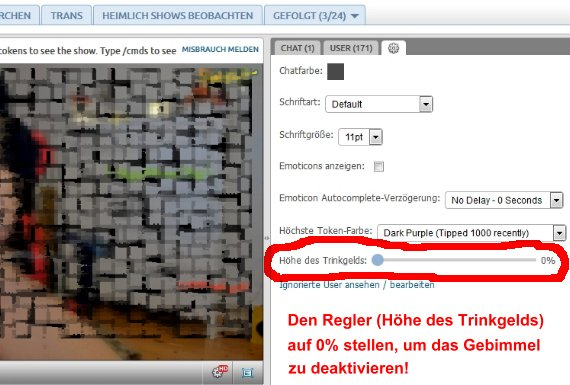
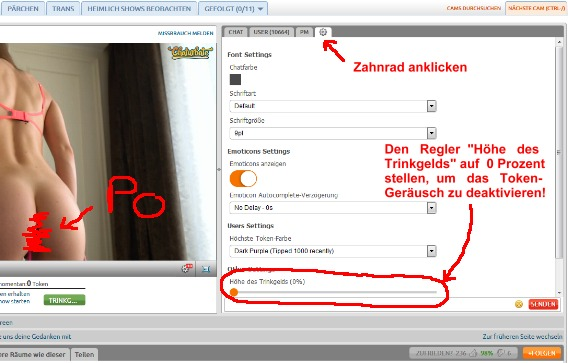
Commit to YOURCURRENTBRANCH

diff --git a/faq/index.htm b/faq/index.htm
@@ -172,27 +172,26 @@ a {
 	Verantwortungsbewusste Webcam-<img class="auto-style65" height="211" src="token-klang-abstellen.png" style="float: left" width="230" title="Die Tokengeräusche deaktivieren" alt="Wie man die Token Geräusche auf Chaturbate abstellen kann">Darstellerinnen 
 	wie <a href="../kimilee22/index.htm" target="_self">Kimilee22</a> erklären ihren Usern wie sie den Tokenkrach eliminieren 
 	können. Andere Webcam-Girls erfreuen sich an den Ohrenqualen ihrer 
-	Zuschauer.<br>Um das Tokengeräusch abzustellen muss man sich nicht einloggen, 
-	auch wenn man zwischendurch dazu aufgefordert wird (Aufforderung 
-	wegklicken!). Im rechten Bereich der Chaturbate-Seite findet man oberhalb 
-	des Chats ein Zahnradsymbol, welches man bitte anklicke, um eine 
-	Registerkarte mit interessanten Einstellungsmöglichkeiten in den Vordergrund 
-	zu rücken. Dort findet man einen Schieberegler mit der fabulösen Bezeichnung 
-	"Höhe des Trinkgelds". Die Bezeichnung ist gleichermaßen falsch wie 
-	beängstigend. Es handelt sich dabei tatsächlich um den Lautstärkeregler des 
-	Token-Geräusches. Man ziehe den Regler ganz nach links und stelle ihn auf 
-	0%. Das nervige Gebimmel hat ein jähes Ende. Trotzdem sollten Sie der 
-	Webcam-Darstellerin hin und wieder einen Token rüberwachsen lassen, um zu 
-	verhindern dass sie sich weiter auszieht! Der Vorgang muss leider wiederholt 
-	werden, sobald man die Chaturbate-Seite einer anderen Webcam-Darstellerin 
-	aufruft.<br>Hinweis: Ist das Gebimmel hernach trotzdem noch mehr oder minder 
+	Zuschauer.<br><strong>Um das Tokengeräusch abstellen zu können, muss man sich 
+	leider neuerdings einloggen.</strong> Man braucht also zumindest einen 
+	kostenlosen Account. Befindet man sich eingeloggt auf der Seite des 
+	jeweiligen Webcam-Girls, klickt man im rechten Bereich oberhalb des Chats 
+	auf das Zahnradsymbol, um eine Registerkarte mit interessanten 
+	Einstellungsmöglichkeiten in den Vordergrund zu rücken.&nbsp; Dort findet 
+	man einen Schieberegler mit der fabulösen Bezeichnung "Höhe des Trinkgelds". 
+	Die Bezeichnung ist gleichermaßen falsch wie beängstigend. Es handelt sich 
+	dabei tatsächlich um den Lautstärkeregler des Token-Geräusches. Man ziehe 
+	den Regler ganz nach links und stelle ihn auf 0%. Das nervige Gebimmel hat 
+	ein jähes Ende. Trotzdem sollten Sie der Webcam-Darstellerin hin und wieder 
+	einen Token rüberwachsen lassen, um zu verhindern dass sie sich weiter 
+	auszieht!<br>Hinweis: Ist das Gebimmel hernach trotzdem noch mehr oder minder 
 	laut zu hören, wird es nicht nur über den Chat, sondern auch über den Stream 
 	übertragen. Dies ist der Fall, wenn sich das Webcam-Girl in ihrem 
 	Arbeitsraum am Gebimmel erfreut und das Mikrofon zu nah am Lautsprecher 
 	stehen hat. In diesem Falle müssen Sie leider auch den Stream leiser 
 	stellen.</p>
 	<p class="auto-style69">
-	<img height="384" src="token-ton-deaktivieren.jpg" width="570" title="So deaktiviert man den Klang der Token" alt="deutsche Anleitung zum Deaktivieren der Tokengeräusche" class="auto-style76"></p>
+	<img src="token-ton-deaktivieren.jpg" title="So deaktiviert man den Klang der Token" alt="deutsche Anleitung zum Deaktivieren der Tokengeräusche" class="auto-style76"></p>
 	<p class="auto-style69">
 	<a href="index.htm" target="_self"><strong>zum Inhalt</strong></a></p>
 	<hr class="auto-style63">
@@ -318,7 +317,8 @@ a {
 			erübrigen kann, indem man einfach auf "abbrechen" klickt. Aus die 
 			Maus...</p>
 			<p class="auto-style60"><em>Hinweis: Im Falle einer Preiserhöhung 
-			wird der Mitgliedspreis für Bestands-Member nicht angehoben. Der 
+			wird der Mitgliedspreis für Bestands-Member offenbar nicht angehoben 
+			(Angabe ohne Gewähr!). Der 
 			Alt-Member zahlt also weiterhin den günstigen Beitrag, zu welchem er 
 			dem Fanclub beigetreten ist. Man sollte also nicht leichtfertig 
 			seine Mitgliedschaft kündigen, nur weil die Liebe zum Webcam-Girl 

diff --git a/faq/_vti_cnf/index.htm b/faq/_vti_cnf/index.htm
@@ -1,11 +1,11 @@
 vti_encoding:SR|utf8-nl
 vti_author:SR|Office-PC\\Office
 vti_modifiedby:SR|Office-PC\\Office
-vti_timelastmodified:TR|09 Apr 2020 12:40:03 -0000
+vti_timelastmodified:TR|24 Apr 2020 12:49:33 -0000
 vti_timecreated:TR|03 Nov 2019 10:23:31 -0000
 vti_title:SR|Das nicht allumfassende Chaturbate FAQ für Anfänger
 vti_extenderversion:SR|12.0.0.0
-vti_nexttolasttimemodified:TW|02 Mar 2020 14:47:16 -0000
+vti_nexttolasttimemodified:TW|24 Apr 2020 12:47:52 -0000
 vti_syncofs_webcam-darstellerin.com\:21/webcam-darstellerin.com:TW|14 Nov 2019 10:40:48 -0000
 vti_syncwith_webcam-darstellerin.com\:21/webcam-darstellerin.com:TX|09 Nov 2019 18:26:01 -0000
 vti_syncofs_ftp.schmidtb.heliohost.org\:21:TW|14 Feb 2020 20:09:50 -0000
@@ -18,8 +18,8 @@ vti_syncofs_93.104.209.49\:21/%2fhttpdocs/webcam-darstellerin.com:TW|11 Feb 2020
 vti_syncwith_ftpupload.net\:21/%2fwebcam-darstellerin.com/htdocs:TX|11 Feb 2020 15:26:55 -0000
 vti_syncofs_ftpupload.net\:21/%2fwebcam-darstellerin.com/htdocs:TW|14 Feb 2020 19:48:58 -0000
 vti_backlinkinfo:VX|index.htm perfektion/index.htm faq/index.htm
-vti_cacheddtm:TX|09 Apr 2020 12:40:03 -0000
-vti_filesize:IR|18791
+vti_cacheddtm:TX|24 Apr 2020 12:49:33 -0000
+vti_filesize:IR|18729
 vti_cachedtitle:SR|Das nicht allumfassende Chaturbate FAQ für Anfänger
 vti_cachedbodystyle:SR|<body style="background-color: #FFD7D7; margin-left: 0; margin-right: 0; margin-top: 0;">
 vti_cachedlinkinfo:VX|H|../index.htm S|../dateien-deutsche-camgirls/banner.jpg S|chaturbate-faq.jpg K|index.htm K|index.htm K|index.htm H|https://chaturbate.com/in/ S|../dateien-deutsche-camgirls/direkt-zu-chaturbate.png S|token-klang-abstellen.png H|../kimilee22/index.htm S|token-ton-deaktivieren.jpg H|index.htm S|tipnote.jpg H|index.htm H|../liebe/index.htm K|index.htm K|index.htm S|fan-club-mitglied-werden.jpg S|fanclub-member-werden.jpg H|../liebe/index.htm S|fanclub-beenden.jpg H|index.htm -H|../impressum/index.htm -H|../index.htm -H|https://streamerin.de -S|../dateien-deutsche-camgirls/streamerin.png -H|../Der\\ Stromer\\ und\\ die\\ Streamerin -S|//sichere-verbindung.webcam-darstellerin.com/matomo.php I|../footer.htm
